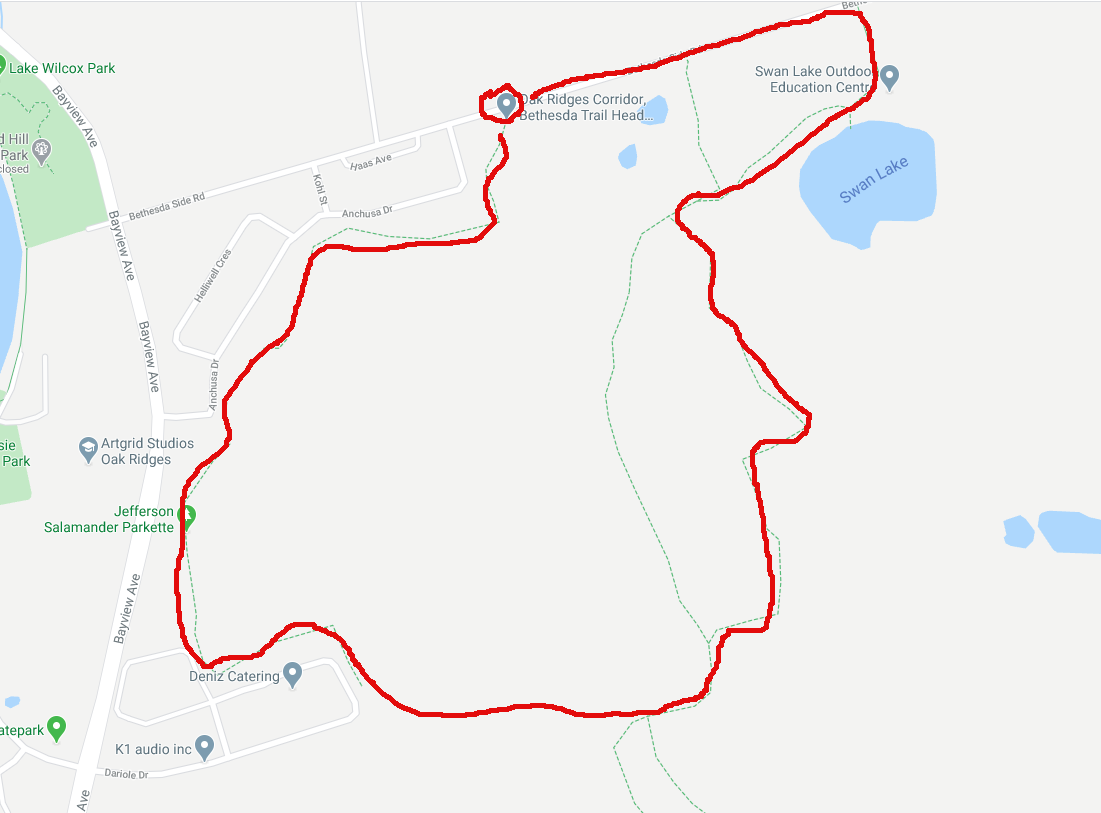
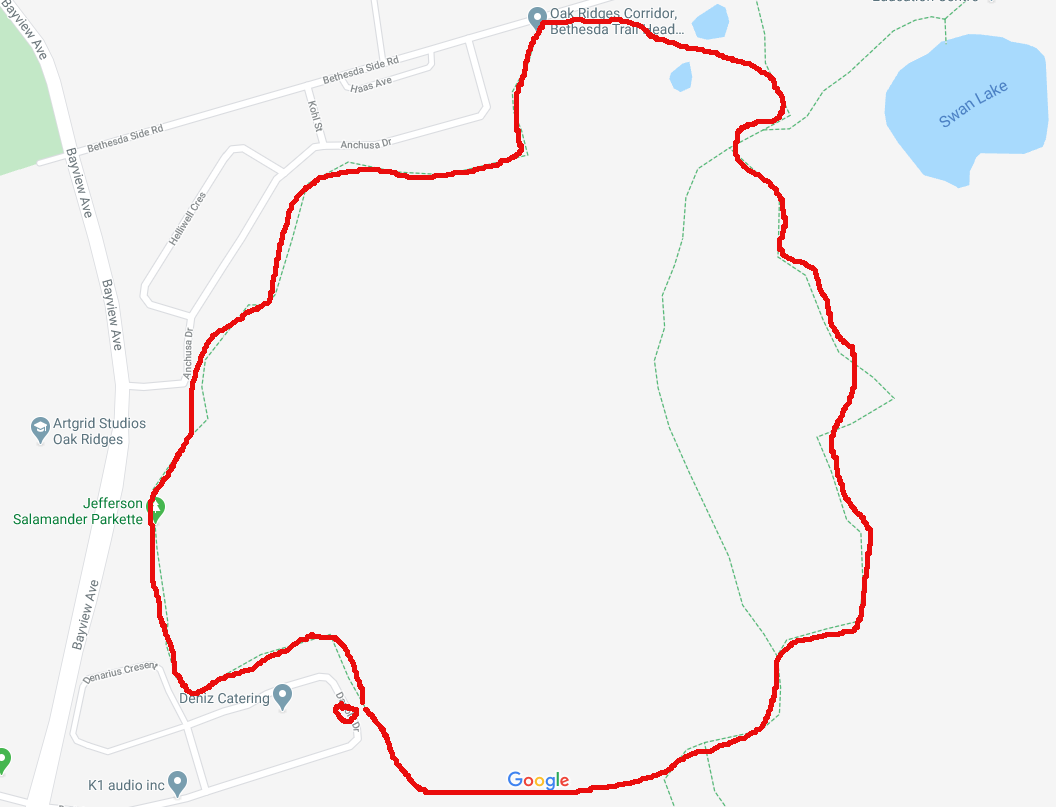
update

diff --git a/_posts/york/2020-05-16-hiking-jefferson-route1.md b/_posts/york/2020-05-16-hiking-jefferson-route1.md
@@ -1,0 +1,28 @@
+---
+layout: post
+title:  "Jefferson Forest - Bethesda Trail"
+date:   2020-05-17 18:30:52 -0400
+img: bethesda.png
+categories: York
+tags: Richmond_Hill
+---
+
+![Linux]({{site.baseurl}}/images/bethesda.png)
+<br>
+<br>
+One of the best places to hike in Richmond Hill is Jefferson Forest. 
+<br>
+<br>
+![Linux]({{site.baseurl}}/images/bethesda1.jpg)
+<br>
+<br>
+![Linux]({{site.baseurl}}/images/bethesda2.jpg)
+<br>
+<br>
+![Linux]({{site.baseurl}}/images/bethesda3.jpg)
+<br>
+<br>
+![Linux]({{site.baseurl}}/images/bethesda4.jpg)
+<br>
+<br>
+![Linux]({{site.baseurl}}/images/bethesda5.jpg)

diff --git a/_posts/york/2020-04-27-hiking-togo.md b/_posts/york/2020-04-27-hiking-togo.md
@@ -14,12 +14,8 @@ Toogood Pond
 ![Linux]({{site.baseurl}}/images/toogood.png)
 German Mills
 ![Linux]({{site.baseurl}}/images/germanmills.png)
-Bethesad Jefferson
-![Linux]({{site.baseurl}}/images/bethesda.png)
 Red Cardinal
 ![Linux]({{site.baseurl}}/images/redcardinal.png)
-East Humber
-![Linux]({{site.baseurl}}/images/easthumber.png)
 Jefferson Forest
 ![Linux]({{site.baseurl}}/images/jefferson.png)
 
